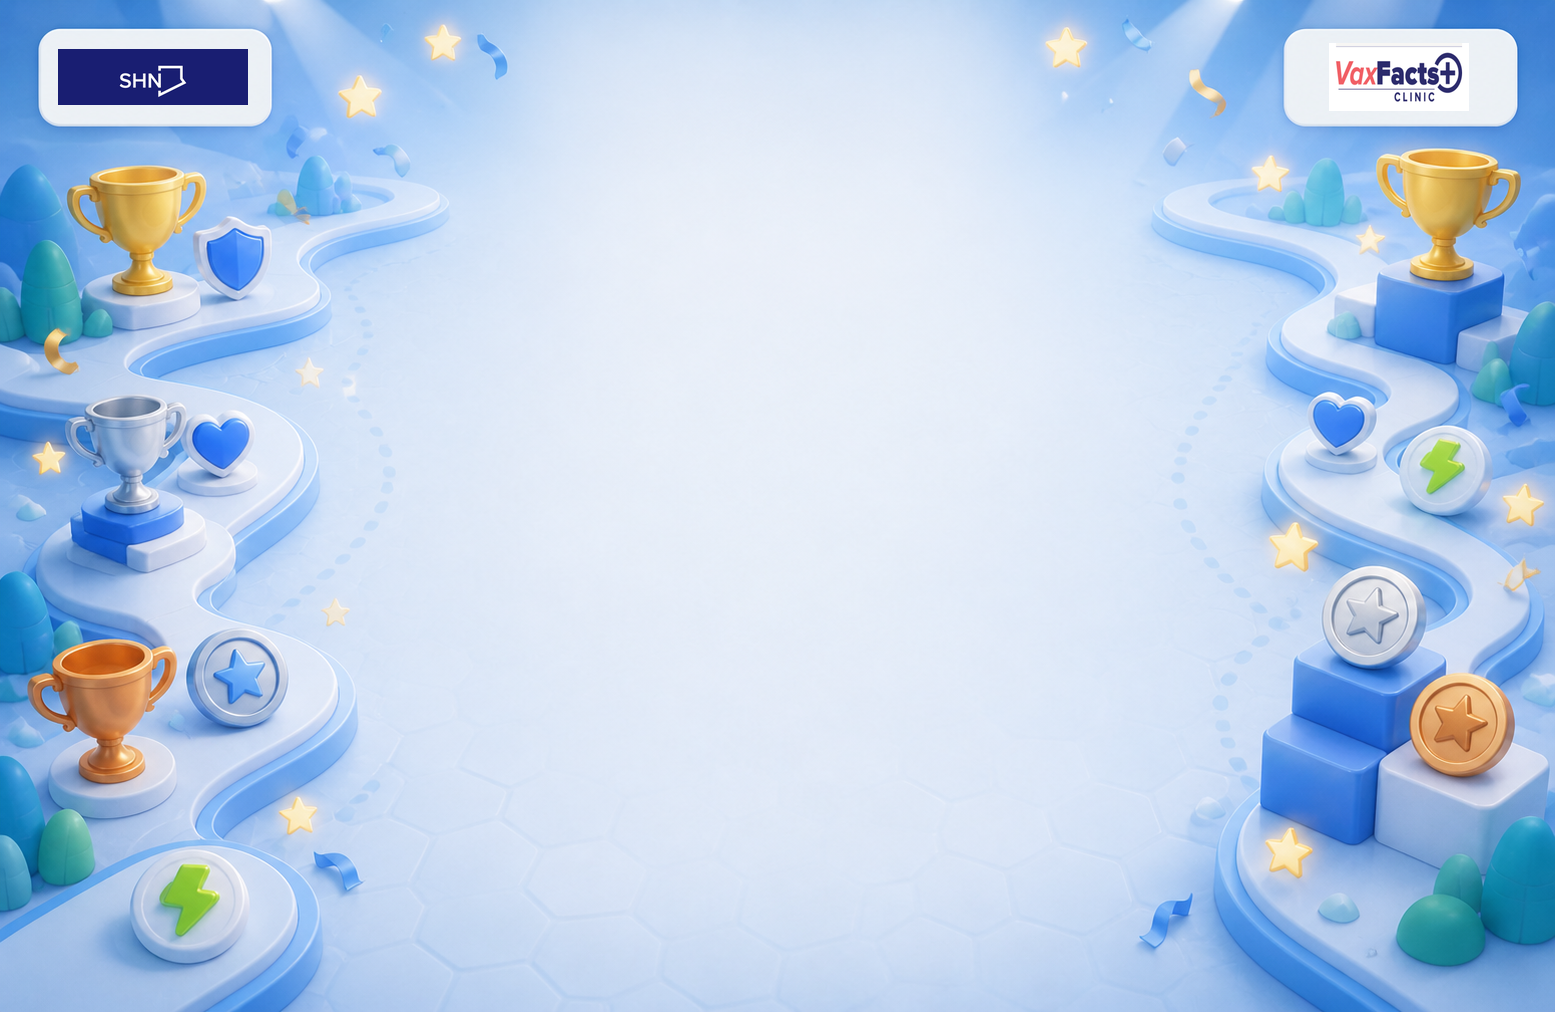
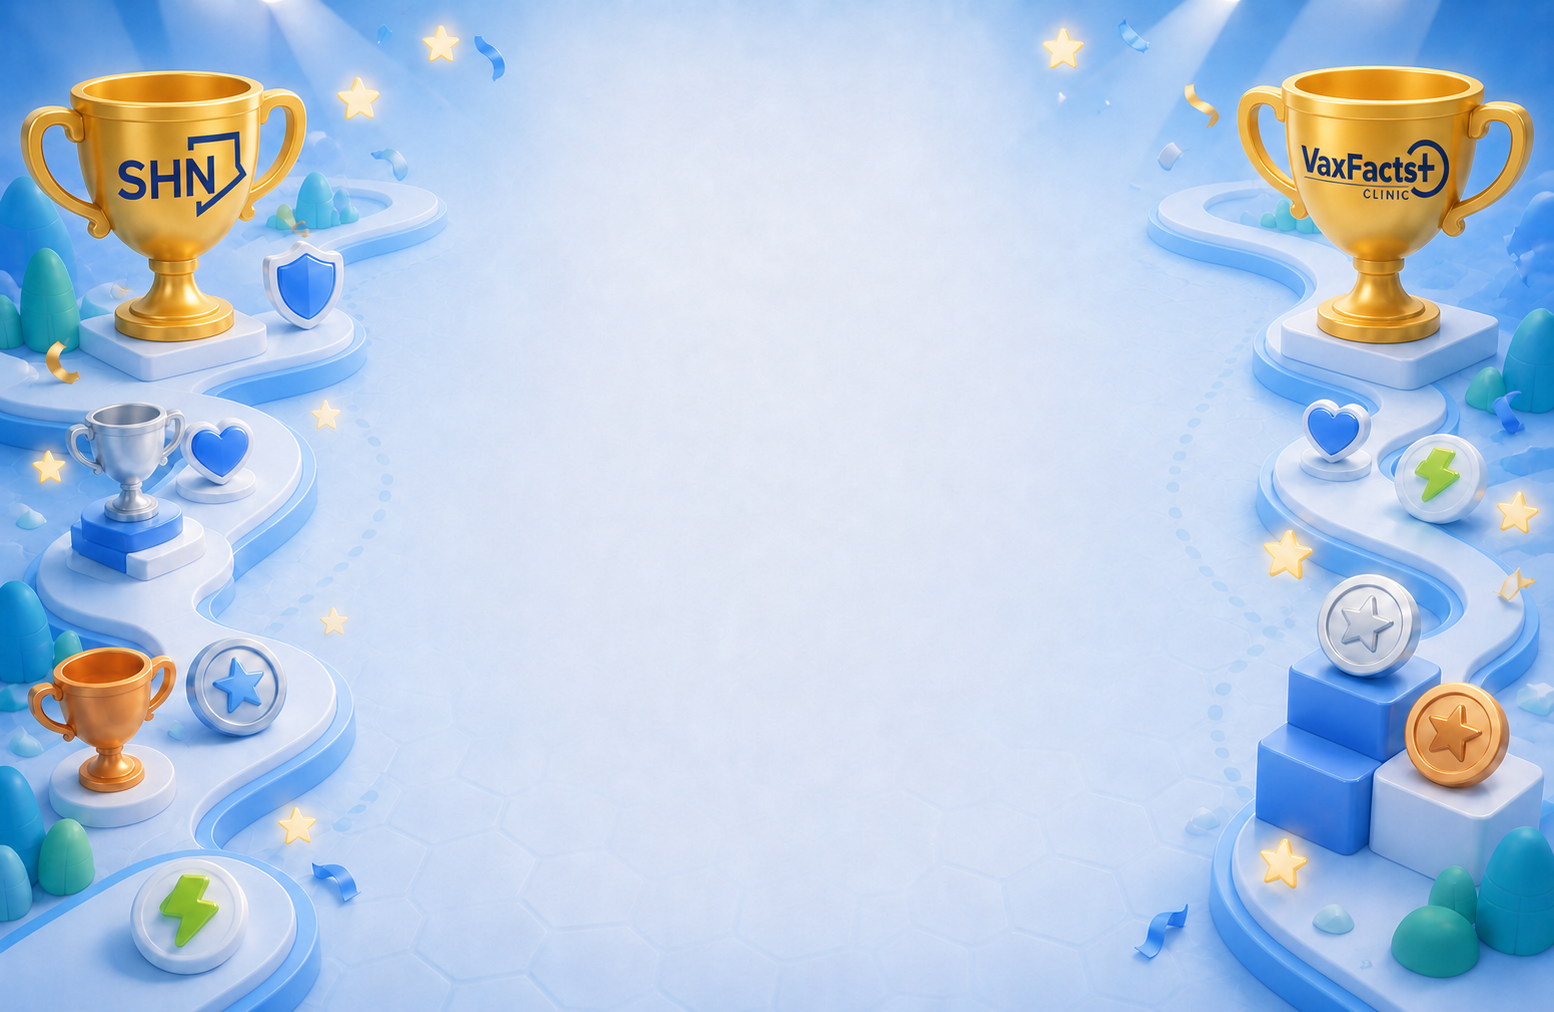
Customize layout polish (title/character/options) + leaderboard backdrop fill; cache-bust updated art

diff --git a/style.css b/style.css
@@ -2117,10 +2117,13 @@ body {
   background-image: url("assets/backgrounds/instructions-bg.png?v=1");
 }
 #screen-leaderboard {
-  background-image: url("assets/backgrounds/leaderboard-bg.png?v=1");
+  background-image: url("assets/backgrounds/leaderboard-bg.png?v=2");
+  /* Trophy-frame art (logos in the corners, clear middle): fill exactly so
+     nothing crops and the center stays open for the score list. */
+  background-size: 100% 100%;
 }
 #screen-customize {
-  background-image: url("assets/backgrounds/customize-bg.png?v=1");
+  background-image: url("assets/backgrounds/customize-bg.png?v=2");
   /* Fill the frame exactly so the corner logo boxes sit right in the corners
      with nothing cut off and no letterbox strips (a slight stretch, barely
      noticeable on a room scene, keeps the true blue colors). */
@@ -2131,6 +2134,29 @@ body {
 #screen-leaderboard .screen-title,
 #screen-customize .screen-title {
   text-shadow: 0 1px 10px rgba(255, 255, 255, 0.9);
+}
+
+/* --- Customize screen: bolder title, pose the character on the floor, and
+   balance the character + options as a centered pair. --- */
+#screen-customize .screen-title {
+  margin-top: 30px;
+  font-size: 30px;
+  font-weight: 900;
+  letter-spacing: 1px;
+  text-transform: uppercase;
+  color: #0b4a6f;
+}
+#screen-customize .customize-layout {
+  margin-top: 34px; /* push the whole character + options block down */
+  gap: 22px;
+  align-items: flex-start;
+}
+#screen-customize #preview-character {
+  transform: translateY(26px); /* drop the character so it stands on the floor */
+}
+#screen-customize .controls {
+  max-width: 280px;
+  transform: translateX(-14px); /* nudge the options left to center the pair */
 }
 
 .leaderboard {
